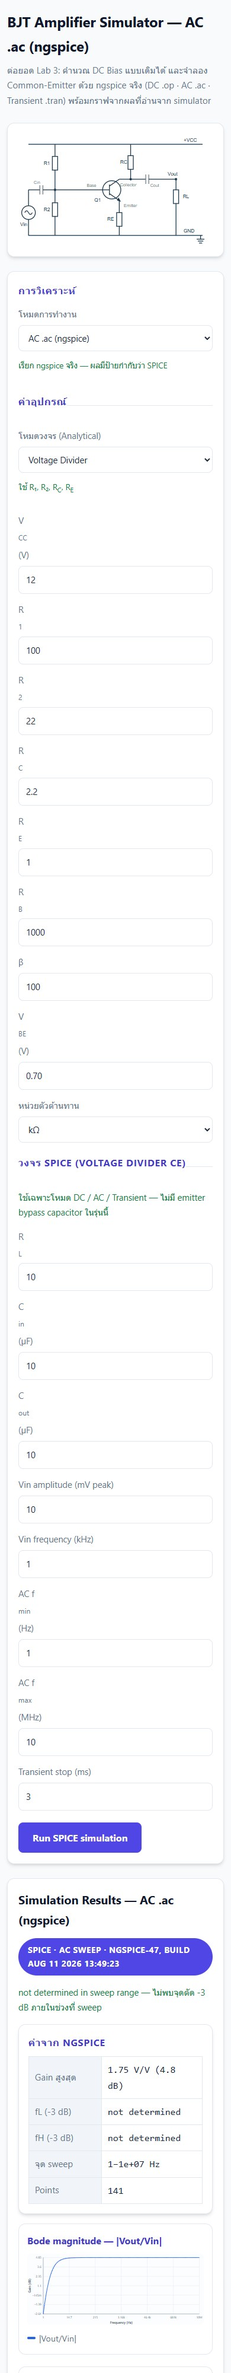
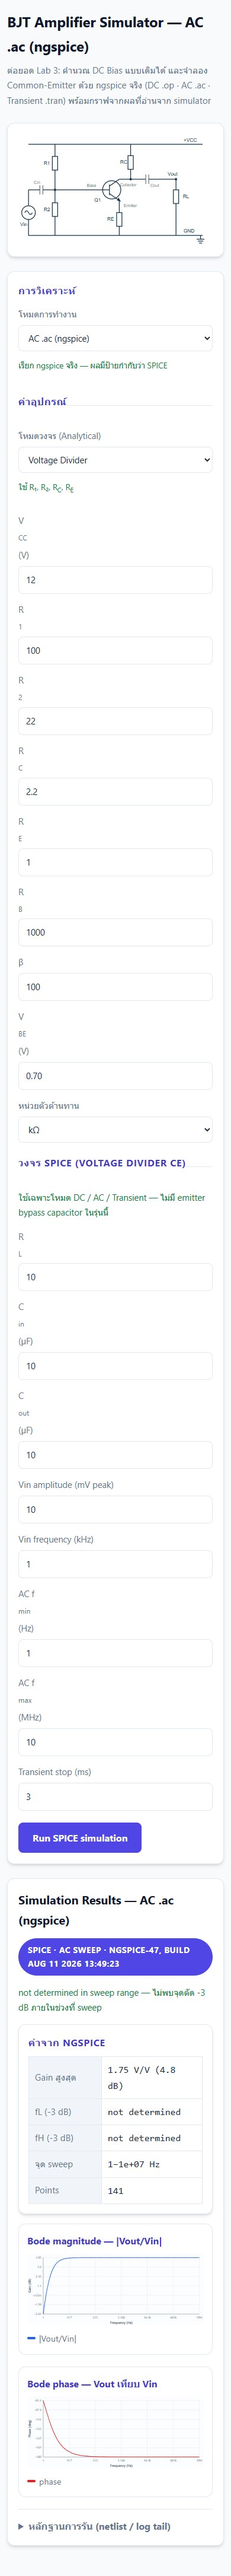
fix: capture full 390x4342 phone UI evidence

diff --git a/docs/validation.md b/docs/validation.md
@@ -83,7 +83,7 @@ python -m flask --app app run --debug
 | **B5 Transient** | เลือก `Transient .tran (ngspice)` → Run @ 10 mV peak, 1 kHz | เห็น Vin/Vout กับเวลา (ms, V), Vpp สมเหตุสมผล และกลับเฟส CE | `Vin 20.0 mV Vpp`, `Vout 0.035 V Vpp`, `Gain 1.75 V/V`, `เฟสโดยประมาณ −180°`, `Points 1508`; แกน `Time (ms)` / `Voltage (V)`; legend `Vin`, `Vout`; ข้อความ `สัญญาณขาออกกลับเฟสตามวงจร Common-Emitter` | polyline 240 จุดที่ downsample จาก 1508 จุดจริง; netlist มี `.tran 2u 3m 0 2u` และ `SIN(0 10m 1k …)` | **PASS** |
 | **B6 Change Source** | เปลี่ยน amplitude 10 → **20 mV peak** แล้วรัน Transient ซ้ำ | Waveform/ค่าต้องเปลี่ยนตาม amplitude ไม่ใช่กราฟ hard-code | `Vin Vpp 20.0 → 40.0 mV`, `Vout Vpp 0.035 → 0.070 V` (gain คง 1.75 V/V); y-axis tick จาก `±17.5m` → `±34.9m`; netlist เปลี่ยนเป็น `SIN(0 20m 1k …)` | ผลก่อน/หลัง + ข้อความ netlist จาก DOM จริง | **PASS** |
 | **B7 Invalid / Fail** | ตั้ง `RE = 0` แล้ว Run DC; ตรวจ error path ของ engine ด้วย unit test | ต้องแจ้ง error, ไม่แสดง results/chart, ไม่มี badge success | ข้อความที่เห็น: `กรุณากรอกข้อมูลให้ถูกต้องแล้วลองอีกครั้ง — analysis — re ต้องมากกว่า 0`; `section.results = false`, `figure.chart = false`, `badge = null` | snapshot ของ `.alert-error` จาก browser จริง; เคส engine หาย/timeout ครอบคลุมใน `tests/test_spice_engine.py` (`test_missing_binary_raises_spice_error`) **แต่ยัง NOT RUN ใน browser** | **PASS** (invalid input) / **NOT RUN** (engine หายใน browser) |
-| **B8 UI** | เปิด/เปลี่ยนทั้ง 4 โหมด (`Analytical`, `DC`, `AC`, `Tran`) บน desktop และจำลอง viewport **390 px** ด้วย iframe ของหน้าเดียวกัน แล้วถ่ายภาพ 2 ขนาดจอ | กราฟ/หน่วย/ปุ่มอ่านได้, ไม่มีเนื้อหาสำคัญถูกตัด | **Desktop** (`innerWidth 1056`, `scrollWidth 1041`): 4/4 โหมดไม่มี horizontal overflow; AC มี 2 กราฟ พร้อมแกน `Frequency (Hz)`, `Gain (dB)`, `Phase (deg)`; Tran มี 1 กราฟแกน `Time (ms)`, `Voltage (V)`; ปุ่มกว้าง 178/208 px, font 16 px; badge engine ชัด **Phone 390 px** (`innerWidth 390`, `scrollWidth 375`): 4/4 โหมดไม่มี overflow; AC กราฟกว้าง 313 px, SVG 283 px, axis font 12 px, button font 16 px, ยังเห็น 2 กราฟ; Tran เห็น 1 กราฟ; ไม่มี `.alert-error` | `docs/captures/B8_desktop.jpeg` (desktop, AC), `docs/captures/B8_phone_390px.jpeg` (390 px, AC แบบเต็มหน้า 390×4000); ตรวจ `scrollWidth <= innerWidth` ทั้ง 4 โหมดจาก DOM จริง | **PASS** (ข้อยกเว้น: ใช้ iframe emulation ไม่ใช่เครื่องมือถือจริง) |
+| **B8 UI** | เปิด/เปลี่ยนทั้ง 4 โหมด (`Analytical`, `DC`, `AC`, `Tran`) บน desktop และจำลอง viewport **390 px** ด้วย iframe ของหน้าเดียวกัน แล้วถ่ายภาพ 2 ขนาดจอ | กราฟ/หน่วย/ปุ่มอ่านได้, ไม่มีเนื้อหาสำคัญถูกตัด | **Desktop** (`innerWidth 1056`, `scrollWidth 1041`): 4/4 โหมดไม่มี horizontal overflow; AC มี 2 กราฟ พร้อมแกน `Frequency (Hz)`, `Gain (dB)`, `Phase (deg)`; Tran มี 1 กราฟแกน `Time (ms)`, `Voltage (V)`; ปุ่มกว้าง 178/208 px, font 16 px; badge engine ชัด **Phone 390 px** (`innerWidth 390`, `scrollWidth 375`): 4/4 โหมดไม่มี overflow; AC กราฟกว้าง 313 px, SVG 283 px, axis font 12 px, button font 16 px, ยังเห็น 2 กราฟ; Tran เห็น 1 กราฟ; ไม่มี `.alert-error` | `docs/captures/B8_desktop.jpeg` (desktop, AC), `docs/captures/B8_phone_390px.jpeg` (390 px, AC แบบเต็มหน้า **390×4342 px** — ไม่ตัดท้าย); ตรวจ `scrollWidth <= innerWidth` ทั้ง 4 โหมดจาก DOM จริง | **PASS** (ข้อยกเว้น: ใช้ iframe emulation ไม่ใช่เครื่องมือถือจริง) |
 
 ## จุดที่ต้องระวัง / ความคลาดเคลื่อน
 
@@ -92,7 +92,7 @@ python -m flask --app app run --debug
 3. **กราฟมาจาก raw file จริง** — `spice_engine.parse_raw()` อ่าน `run.raw` ที่ ngspice เขียน; `charts.py` คำนวณพิกัด SVG จาก array นั้นฝั่ง server ไม่มี JavaScript และไม่มีข้อมูลตัวอย่างฝังใน template
 4. **เครื่องมือตรวจรับไม่ตรงตามใบงาน 100%** — ไม่มี Playwright MCP และ Impeccable skill ในสภาพแวดล้อมนี้ จึงใช้ in-app browser ของ OpenCode + ปรับ CSS ด้วยตนเอง และระบุตรงไปตรงมาว่าไม่มีหลักฐานจาก skill ดังกล่าว
 5. **Screenshot ไม่ได้พิสูจน์ค่าทางวิศวกรรม** — ตัวเลขในตารางอ่านจาก DOM/netlist/log ที่ browser แสดงจริง มี screenshot เป็นหลักฐานประกอบเท่านั้น
-6. **แผนภาพวงจรใน evidence ถูกอัปเดตให้ครบ** — `static/images/bjt-voltage-divider.svg` แสดง `+VCC, GND, Vin, Cin, R1, R2, Base, RC, Q1, Collector, Emitter, RE, Cout, Vout, RL` และต่อเชื่อมถูกต้องตาม Common-Emitter; ตรวจจาก `<text>` ใน SVG ที่ browser โหลดจริง แล้วถ่าย screenshot ใหม่แทนของเดิม (ยังเป็น UI เดิม ไม่ใช่ภาพ generating ภายนอก) ภาพ B8 ถูกถ่ายใหม่ทั้ง desktop และ phone 390 px หลังเปลี่ยนครบทั้ง 4 โหมด
+6. **แผนภาพวงจรใน evidence ถูกอัปเดตให้ครบ** — `static/images/bjt-voltage-divider.svg` แสดง `+VCC, GND, Vin, Cin, R1, R2, Base, RC, Q1, Collector, Emitter, RE, Cout, Vout, RL` และต่อเชื่อมถูกต้องตาม Common-Emitter; ตรวจจาก `<text>` ใน SVG ที่ browser โหลดจริง แล้วถ่าย screenshot ใหม่แทนของเดิม (ยังเป็น UI เดิม ไม่ใช่ภาพ generating ภายนอก) ภาพ B8 ถูกถ่ายใหม่ทั้ง desktop และ phone 390 px หลังเปลี่ยนครบทั้ง 4 โหมด; ภาพ phone รุ่นแรกตัดท้ายเพราะตั้งความสูง capture ไว้ 4000 px ทั้งที่หน้าเว็บสูง 4342 px — ได้แก้โดยถ่ายใหม่ที่ 390×4342 px จริง (ตรวจด้วย OCR ว่ามีทั้งหัวข้อและ `หลักฐานการรัน (netlist / log tail)`)
 
 ## วิธีทำซ้ำ Lab 04
 
